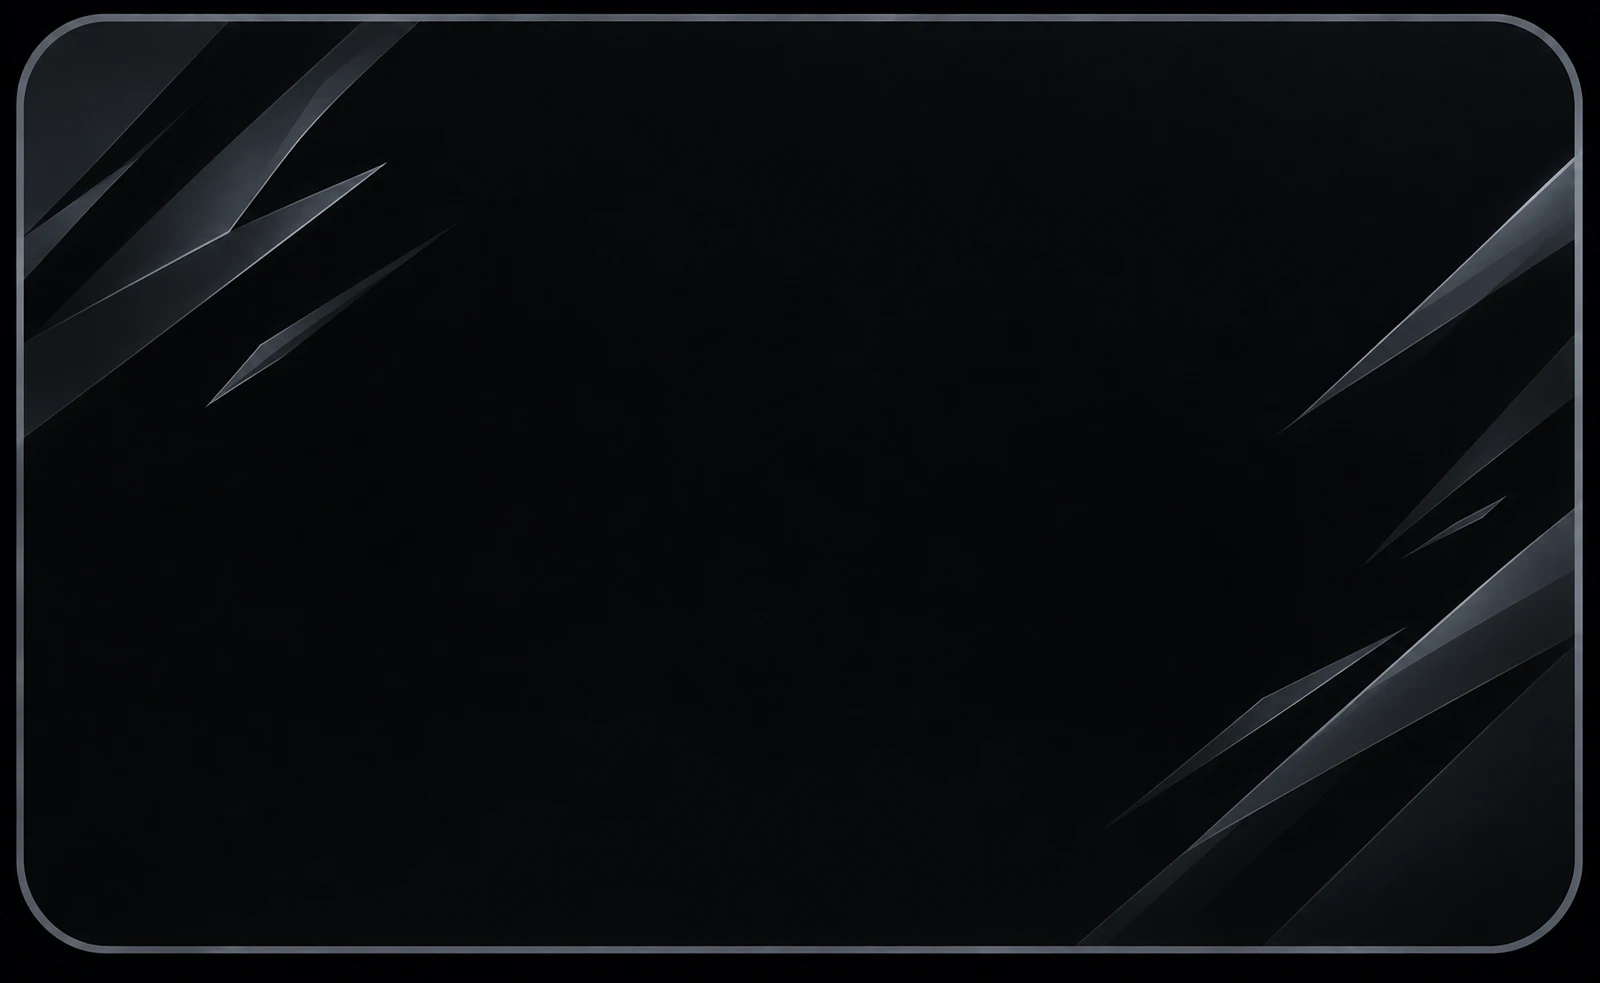
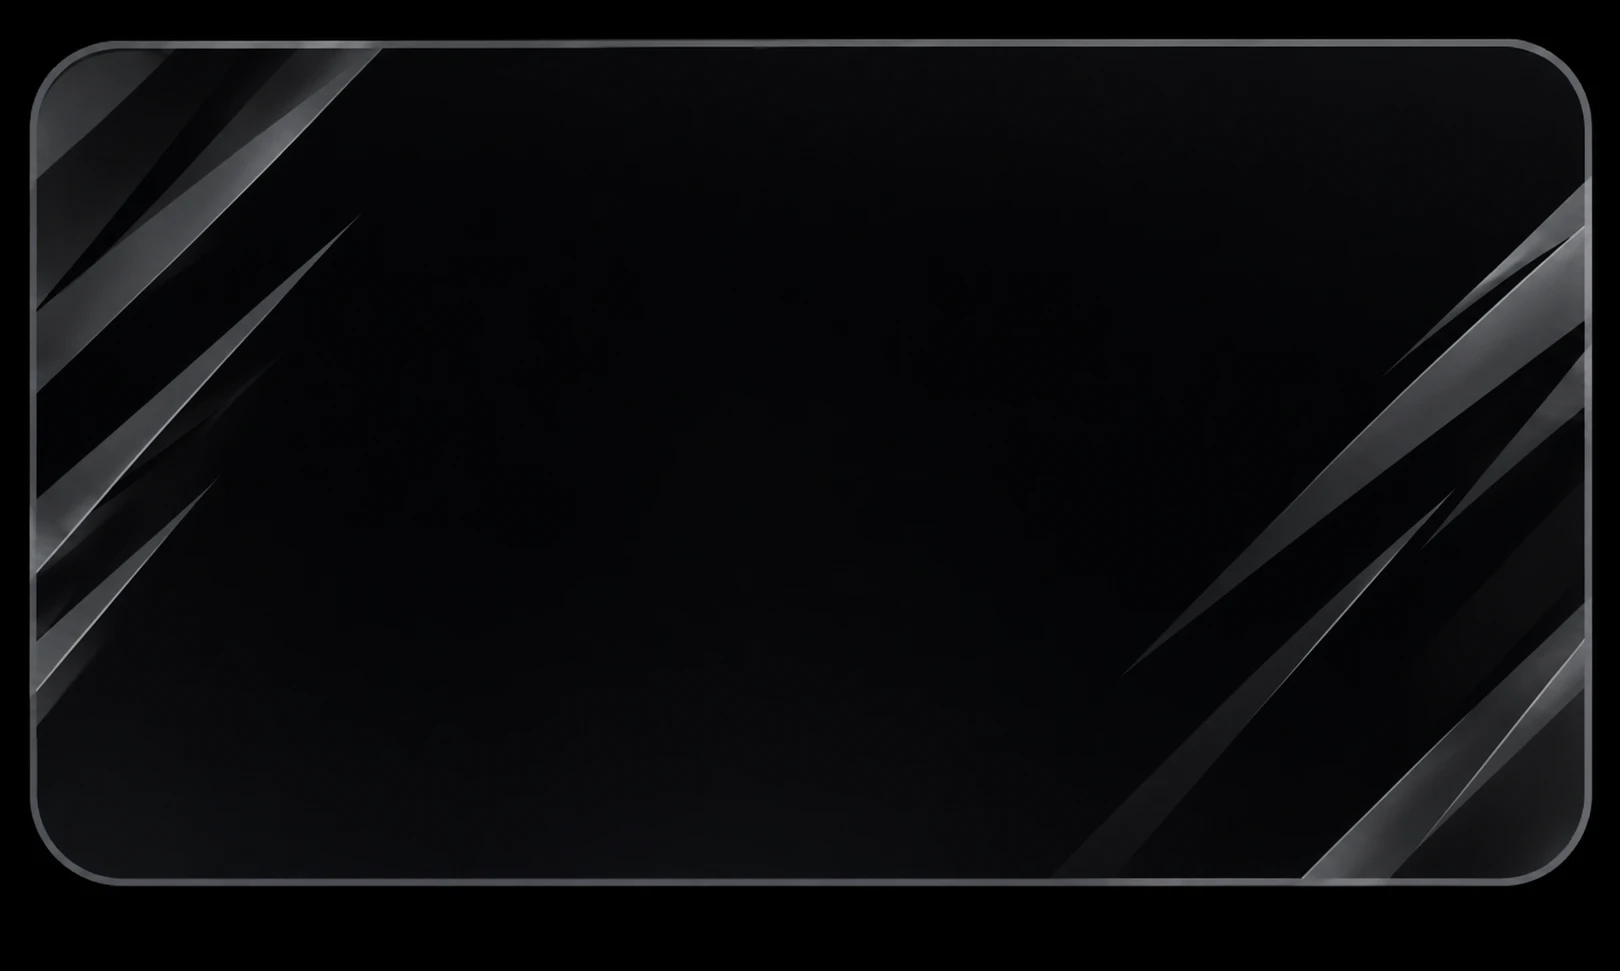
Unranked bg : image etiree 100% + 2px debord (pas de crop, fit pixels)
Nouvelle image avec bordure deja dessinee : on l'etire sur toute
la case (size: calc(100% + 2px)) avec position -1px -1px pour masquer
les bords de 1px et eviter les filets antialias.

Claude-Session: https://claude.ai/code/session_01ULR43Qp726Ar9gF7B4RKsB

diff --git a/Frontend/App.jsx b/Frontend/App.jsx
@@ -5826,7 +5826,7 @@ function getStreakColor(s) {
 // (haut/bas/gauche/droite) dépasse de ~7,5% du cadre. Les bords transparents
 // des PNG sortent du cadre, le focal point (perso/glow) reste au milieu.
 const RANK_TIERS = [
-  { name: "Unranked",      minPts: 0,    color: "#9CA3AF",  logo: "/unranked-new-sm.png", bg: "rgba(156,163,175,0.15)",  border: "rgba(156,163,175,0.25)", maxPct: 1,    bgImage: "/unranked-back-new.webp", bgCrop: { size: "cover", position: "center center" } },
+  { name: "Unranked",      minPts: 0,    color: "#9CA3AF",  logo: "/unranked-new-sm.png", bg: "rgba(156,163,175,0.15)",  border: "rgba(156,163,175,0.25)", maxPct: 1,    bgImage: "/unranked-back-new.webp", bgCrop: { size: "calc(100% + 2px) calc(100% + 2px)", position: "-1px -1px" } },
   { name: "Override",      minPts: 50,   color: "#CD7F32", logo: "/logos/bronze-sm.png",  bg: "rgba(205,127,50,0.32)",  border: "rgba(205,127,50,0.3)",  maxPct: 0.20, bgImage: "/bronze-back-fit.png",   bgCrop: { size: "cover", position: "center center" } },
   { name: "Champion",      minPts: 300,  color: "#A855F7", logo: "/champion-sm.png",     bg: "rgba(168,85,247,0.32)",  border: "rgba(168,85,247,0.3)",  maxPct: 0.25, bgImage: "/champion-back-fit.png", bgCrop: { size: "cover", position: "center center" } },
   { name: "Immortal",      minPts: 1000, color: "#EF4444", logo: "/immortal-sm.png",     bg: "rgba(239,68,68,0.32)",   border: "rgba(239,68,68,0.3)",   maxPct: 0.30, bgImage: "/immortal-back-fit.png", bgCrop: { size: "cover", position: "center center" } },
